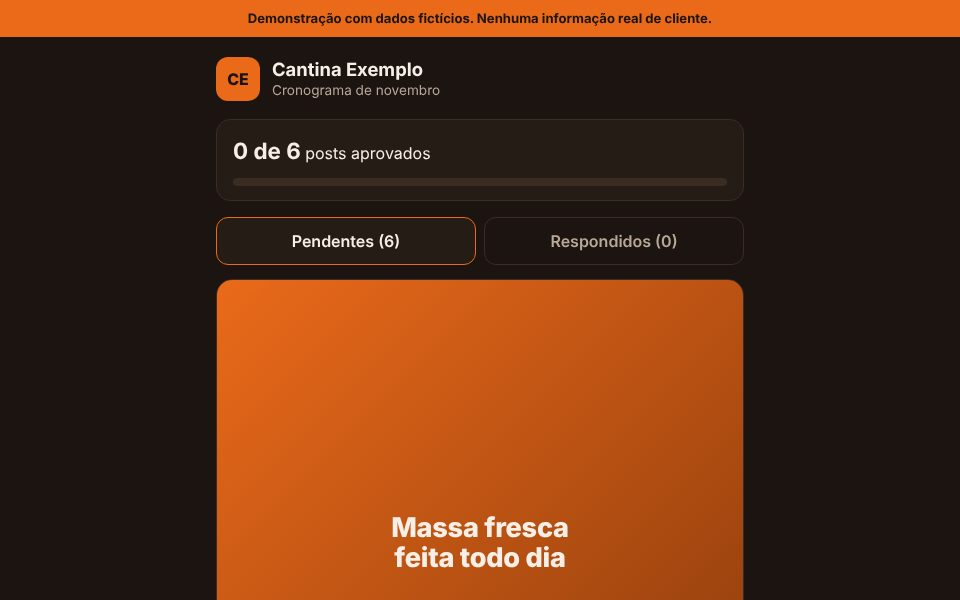
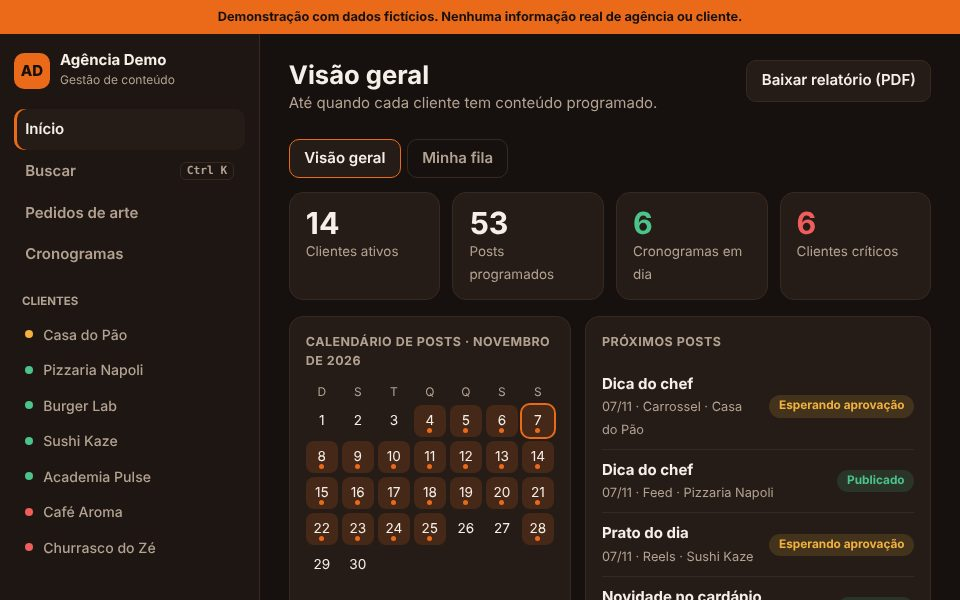
Demonstração completa (fictícia) do sistema de gestão de conteúdo para agências
Claude-Session: https://claude.ai/code/session_01MEoCJExMXmCTVFxWk9bnrk

diff --git a/demo-sistema/index.html b/demo-sistema/index.html
@@ -1,0 +1,163 @@
+<!doctype html>
+<html lang="pt-BR">
+<head>
+<meta charset="utf-8">
+<meta name="viewport" content="width=device-width,initial-scale=1">
+<title>Demonstração: gestão de conteúdo para agências | Creative Codex</title>
+<meta name="description" content="Demonstração com dados fictícios de um sistema de gestão de cronogramas, posts e pedidos de arte para agências de marketing.">
+<meta name="robots" content="noindex">
+<meta name="theme-color" content="#16110e">
+<style>
+:root{--bg:#16110e;--side:#1d1612;--card:#251c17;--line:#38291f;--tx:#f6efe8;--dim:#b3a291;--ac:#ea6a1a;--ok:#4cc38a;--warn:#f2b23d;--bad:#ef5d5d;--info:#6aa8ff}
+*{box-sizing:border-box;margin:0}
+body{background:var(--bg);color:var(--tx);font:15px/1.5 system-ui,-apple-system,"Segoe UI",Roboto,sans-serif}
+button,select,input{font:inherit;color:inherit}
+select,input{background:var(--card);border:1px solid var(--line);border-radius:10px;padding:.45rem .6rem;color-scheme:dark}
+.demo{background:var(--ac);color:#16110e;text-align:center;font-weight:700;font-size:.8rem;padding:.45rem 1rem}
+.app{display:grid;grid-template-columns:260px 1fr;min-height:100vh}
+.side{background:var(--side);border-right:1px solid var(--line);padding:18px 14px;position:sticky;top:0;height:100vh;overflow:auto}
+.brand{display:flex;gap:10px;align-items:center;margin-bottom:18px}.brand i{width:36px;height:36px;border-radius:10px;background:var(--ac);display:grid;place-items:center;font-style:normal;font-weight:800;color:#16110e}
+.brand b{display:block;line-height:1.1}.brand span{font-size:.75rem;color:var(--dim)}
+.nav button{display:flex;width:100%;align-items:center;gap:10px;background:none;border:0;border-radius:10px;padding:.6rem .7rem;color:var(--dim);cursor:pointer;text-align:left;font-weight:600}
+.nav button:hover{background:var(--card)}.nav button[aria-current=page]{background:var(--card);color:var(--tx);box-shadow:inset 3px 0 0 var(--ac)}
+.nav kbd{margin-left:auto;font-size:.7rem;border:1px solid var(--line);border-radius:6px;padding:0 .35rem;color:var(--dim)}
+.sec{font-size:.72rem;color:var(--dim);margin:18px 8px 6px;font-weight:700}
+.cl{max-height:40vh;overflow:auto}
+.cl button{font-weight:500;font-size:.88rem;padding:.45rem .7rem}
+.dot{width:8px;height:8px;border-radius:50%;flex:0 0 8px}
+.app>div{min-width:0}
+main{padding:26px clamp(16px,3vw,40px) 60px;max-width:1240px;width:100%}
+h1{font-size:1.6rem;line-height:1.2}.sub{color:var(--dim);margin:2px 0 18px}
+.top{display:flex;justify-content:space-between;gap:12px;flex-wrap:wrap;align-items:flex-start;margin-bottom:6px}
+.btn{border:1px solid var(--line);background:var(--card);border-radius:10px;padding:.55rem .9rem;cursor:pointer;font-weight:600}
+.btn.pri{background:var(--ac);border-color:var(--ac);color:#16110e}.btn:hover{filter:brightness(1.12)}
+.kpis{display:grid;grid-template-columns:repeat(4,1fr);gap:12px;margin-bottom:16px}
+.k{background:var(--card);border:1px solid var(--line);border-radius:14px;padding:14px 16px}.k b{font-size:1.9rem;display:block;line-height:1.1}.k span{color:var(--dim);font-size:.84rem}
+.k.bad b{color:var(--bad)}.k.ok b{color:var(--ok)}
+.grid2{display:grid;grid-template-columns:1.1fr 1fr;gap:14px;margin-bottom:16px}
+.card{background:var(--card);border:1px solid var(--line);border-radius:14px;padding:16px}
+.card h2{font-size:.78rem;color:var(--dim);margin-bottom:12px;letter-spacing:.04em}
+.cal{display:grid;grid-template-columns:repeat(7,1fr);gap:4px;text-align:center}
+.cal .h{color:var(--dim);font-size:.75rem}.cal .d{position:relative;aspect-ratio:1;display:grid;place-items:center;border-radius:8px;font-size:.85rem}
+.cal .d.has{background:rgba(234,106,26,.16)}.cal .d.has::after{content:"";position:absolute;bottom:4px;width:5px;height:5px;border-radius:50%;background:var(--ac)}
+.cal .d.today{outline:2px solid var(--ac)}
+.row{display:flex;align-items:center;gap:10px;padding:.55rem 0;border-bottom:1px solid var(--line)}.row:last-child{border:0}
+.row .t{flex:1;min-width:0}.row .t b{display:block;overflow:hidden;text-overflow:ellipsis;white-space:nowrap}.row .t span{font-size:.8rem;color:var(--dim)}
+.chip{display:inline-block;border-radius:99px;padding:.15rem .6rem;font-size:.74rem;font-weight:700;white-space:nowrap}
+.c-ok{background:rgba(76,195,138,.15);color:var(--ok)}.c-warn{background:rgba(242,178,61,.15);color:var(--warn)}.c-bad{background:rgba(239,93,93,.15);color:var(--bad)}.c-info{background:rgba(106,168,255,.15);color:var(--info)}.c-mut{background:var(--line);color:var(--dim)}
+.tabs{display:flex;gap:6px;margin-bottom:14px;flex-wrap:wrap}.tabs button{border:1px solid var(--line);background:none;border-radius:10px;padding:.45rem .9rem;color:var(--dim);cursor:pointer;font-weight:600}.tabs button[aria-selected=true]{background:var(--card);color:var(--tx);border-color:var(--ac)}
+.filters{display:flex;gap:8px;flex-wrap:wrap;margin-bottom:14px}.filters select,.filters input,.f select,.f input{background:var(--card);border:1px solid var(--line);border-radius:10px;padding:.5rem .7rem}
+table{width:100%;border-collapse:collapse}th{text-align:left;font-size:.75rem;color:var(--dim);padding:.5rem .6rem}td{padding:.65rem .6rem;border-top:1px solid var(--line);vertical-align:middle}
+.tw{overflow-x:auto}
+.empty{text-align:center;color:var(--dim);padding:34px 8px}
+dialog{background:var(--card);color:var(--tx);border:1px solid var(--line);border-radius:16px;padding:20px;width:min(440px,92vw)}dialog::backdrop{background:rgba(0,0,0,.6)}
+.f{display:grid;gap:10px;margin:14px 0}.f label{display:grid;gap:4px;font-size:.82rem;color:var(--dim)}
+.bar{height:8px;background:var(--line);border-radius:8px;overflow:hidden;margin-top:6px}.bar i{display:block;height:100%;background:var(--ac)}
+.mnav{display:none}
+@media (max-width:860px){
+ .app{grid-template-columns:1fr}.side{display:none}
+ .mnav{display:flex;position:sticky;top:0;z-index:40;background:var(--side);border-bottom:1px solid var(--line);overflow-x:auto;gap:6px;padding:8px 12px}
+ .mnav button{flex:0 0 auto;border:1px solid var(--line);background:none;border-radius:99px;padding:.4rem .8rem;color:var(--dim);font-weight:600;cursor:pointer}.mnav kbd{display:none}.mnav button[aria-current=page]{background:var(--ac);color:#16110e;border-color:var(--ac)}
+ .kpis{grid-template-columns:1fr 1fr}.grid2{grid-template-columns:1fr}
+}
+button:focus-visible,select:focus-visible,input:focus-visible{outline:2px solid var(--tx);outline-offset:2px}
+@media print{.demo,.side,.mnav,.btn{display:none}.app{display:block}body{background:#fff;color:#000}.card,.k{border-color:#ccc;background:#fff}}
+</style>
+</head>
+<body>
+<div class="demo">Demonstração com dados fictícios. Nenhuma informação real de agência ou cliente.</div>
+<div class="app">
+ <aside class="side">
+  <div class="brand"><i>AD</i><div><b>Agência Demo</b><span>Gestão de conteúdo</span></div></div>
+  <nav class="nav" id="nav"></nav>
+  <div class="sec">CLIENTES</div>
+  <nav class="nav cl" id="cl"></nav>
+ </aside>
+ <div>
+  <nav class="mnav" id="mnav"></nav>
+  <main id="main"></main>
+ </div>
+</div>
+<dialog id="dlg"></dialog>
+<script>
+const $=s=>document.querySelector(s);
+const esc=s=>String(s).replace(/[&<>"]/g,c=>({'&':'&amp;','<':'&lt;','>':'&gt;','"':'&quot;'}[c]));
+const day=86400000,T0=new Date();T0.setHours(12,0,0,0);
+const dt=n=>new Date(T0.getTime()+n*day);
+const iso=d=>d.getFullYear()+'-'+String(d.getMonth()+1).padStart(2,'0')+'-'+String(d.getDate()).padStart(2,'0');
+const br=d=>String(d.getDate()).padStart(2,'0')+'/'+String(d.getMonth()+1).padStart(2,'0');
+const MES=['Janeiro','Fevereiro','Março','Abril','Maio','Junho','Julho','Agosto','Setembro','Outubro','Novembro','Dezembro'];
+const clients=[['Casa do Pão',[1,0,1,2,3,4,5,6]],['Pizzaria Napoli',[0,2,4,6,8,10,12]],['Burger Lab',[1,3,6,9]],['Sushi Kaze',[0,1,3,5,7,9,11,13,15,17]],['Academia Pulse',[2,4,9,12,16]],['Café Aroma',[]],['Churrasco do Zé',[-3,-1]],['Doceria Mel',[1,2,5]],['Bistrô Verde',[]],['Tapioca da Vila',[-2,0,1]],['Lanchonete Central',[4,7,10,14,18,21]],['Studio Fit',[]],['Padaria Sol',[-1]],['Sorveteria Gelato',[3,6,9,12,15,18,21,24]]].map((c,i)=>({id:i,name:c[0]}));
+const FMT=['Reels','Feed','Stories','Carrossel'],TIT=['Prato do dia','Promoção da semana','Bastidores','Aniversariante','Novidade no cardápio','Depoimento de cliente','Combo família','Dica do chef','Instrumental','Lançamento'];
+const STP=['Rascunho','Esperando aprovação','Aprovado','Programado','Publicado'];
+let posts=[],n=0;
+clients.forEach(c=>{const offs=[[1,0,1,2,3,4,5,6],[0,2,4,6,8,10,12],[1,3,6,9],[0,1,3,5,7,9,11,13,15,17],[2,4,9,12,16],[],[-3,-1],[1,2,5],[],[-2,0,1],[4,7,10,14,18,21],[],[-1],[3,6,9,12,15,18,21,24]][c.id];
+ offs.forEach((o,j)=>{n++;const past=o<0,today=o===0;posts.push({id:n,c:c.id,d:iso(dt(o)),f:FMT[(n+j)%4],t:TIT[(n*3+j)%TIT.length],s:past?4:today?(n%2?4:1):[1,2,3][n%3]})})});
+const reqs=[];[['Casa do Pão','Arte nova','Recorrente',1,0],['Pizzaria Napoli','Atualização','Feriado',0,1],['Burger Lab','Arte nova','Outro',2,2],['Sushi Kaze','Atualização','Recorrente',-1,0],['Academia Pulse','Arte nova','Aulão',3,2],['Doceria Mel','Arte nova','Feriado',5,3],['Café Aroma','Atualização','Recorrente',0,5],['Sorveteria Gelato','Arte nova','Outro',-2,1]].forEach((r,i)=>reqs.push({id:i+1,c:r[0],k:r[1],cat:r[2],d:iso(dt(r[3])),s:['Aguardando','Em produção','Alteração solicitada','Entregue','Aprovada','Em produção'][r[4]]||'Aguardando',w:r[1]==='Arte nova'?3:1}));
+const ST={view:'home',sub:'geral',cid:null,rtab:'ped',rview:'lista',rf:'Abertas',cap:{teto:20,nova:3,atu:1}};
+const stClass=s=>({'Publicado':'c-ok','Aprovado':'c-ok','Programado':'c-info','Esperando aprovação':'c-warn','Rascunho':'c-mut'}[s]||'c-mut');
+function pcl(c){const ps=posts.filter(p=>p.c===c.id&&p.d>=iso(T0)).sort((a,b)=>a.d<b.d?-1:1);const last=ps.length?ps[ps.length-1].d:(posts.filter(p=>p.c===c.id).map(p=>p.d).sort().pop()||'');
+ const days=last?Math.round((new Date(last+'T12:00:00')-T0)/day):null;
+ let st,cls,col;if(!last){st='Sem conteúdo';cls='c-bad';col='var(--bad)'}else if(days<0){st='Vencido';cls='c-bad';col='var(--bad)'}else if(days<=2){st='Acaba em breve';cls='c-warn';col='var(--warn)'}else if(days<=7){st='Acabando';cls='c-warn';col='var(--warn)'}else{st='Em dia';cls='c-ok';col='var(--ok)'}
+ return{c,fut:ps.length,last,days,st,cls,col}}
+function nav(){const it=[['home','Início'],['search','Buscar'],['reqs','Pedidos de arte'],['sched','Cronogramas']];
+ const h=it.map(([k,l])=>`<button data-v="${k}" ${ST.view===k?'aria-current="page"':''}>${l}${k==='search'?'<kbd>Ctrl K</kbd>':''}</button>`).join('');
+ $('#nav').innerHTML=h;$('#mnav').innerHTML=h;
+ $('#cl').innerHTML=clients.map(c=>{const p=pcl(c);return`<button data-c="${c.id}" ${ST.view==='sched'&&ST.cid===c.id?'aria-current="page"':''}><span class="dot" style="background:${p.col}"></span>${esc(c.name)}</button>`}).join('')}
+function home(){const all=clients.map(pcl),crit=all.filter(p=>p.days===null||p.days<=2);
+ const up=posts.filter(p=>p.d>=iso(T0)).sort((a,b)=>a.d<b.d?-1:a.d>b.d?1:a.id-b.id);
+ const nf=posts.filter(p=>p.d>=iso(T0)).length,ok=all.filter(p=>p.days!==null&&p.days>7).length;
+ const y=T0.getFullYear(),m=T0.getMonth(),first=new Date(y,m,1).getDay(),dim=new Date(y,m+1,0).getDate();
+ const has=new Set(posts.map(p=>p.d));
+ let cal='';['D','S','T','Q','Q','S','S'].forEach(l=>cal+=`<div class="h">${l}</div>`);for(let i=0;i<first;i++)cal+='<div></div>';
+ for(let d=1;d<=dim;d++){const k=y+'-'+String(m+1).padStart(2,'0')+'-'+String(d).padStart(2,'0');cal+=`<div class="d ${has.has(k)?'has':''} ${d===T0.getDate()?'today':''}">${d}</div>`}
+ const tabs=`<div class="tabs" role="tablist"><button data-sub="geral" aria-selected="${ST.sub==='geral'}">Visão geral</button><button data-sub="fila" aria-selected="${ST.sub==='fila'}">Minha fila</button></div>`;
+ if(ST.sub==='fila'){const mine=posts.filter(p=>p.s===1).slice(0,8),r=reqs.filter(r=>['Aguardando','Em produção','Alteração solicitada'].includes(r.s));
+  return`<div class="top"><div><h1>Minha fila</h1><p class="sub">O que precisa da sua atenção hoje.</p></div></div>${tabs}<div class="grid2"><div class="card"><h2>POSTS PARA APROVAR</h2>${mine.map(p=>`<div class="row"><div class="t"><b>${esc(p.t)}</b><span>${esc(clients[p.c].name)} · ${br(new Date(p.d+'T12:00'))} · ${p.f}</span></div><button class="btn" data-ap="${p.id}">Aprovar</button></div>`).join('')||'<p class="empty">Nada pendente.</p>'}</div><div class="card"><h2>PEDIDOS DE ARTE EM ABERTO</h2>${r.map(q=>`<div class="row"><div class="t"><b>${esc(q.c)}</b><span>${q.k} · ${br(new Date(q.d+'T12:00'))}</span></div><span class="chip c-warn">${q.s}</span></div>`).join('')||'<p class="empty">Nada em aberto.</p>'}</div></div>`}
+ return`<div class="top"><div><h1>Visão geral</h1><p class="sub">Até quando cada cliente tem conteúdo programado.</p></div><button class="btn" onclick="window.print()">Baixar relatório (PDF)</button></div>${tabs}
+ <div class="kpis"><div class="k"><b>${clients.length}</b><span>Clientes ativos</span></div><div class="k"><b>${nf}</b><span>Posts programados</span></div><div class="k ok"><b>${ok}</b><span>Cronogramas em dia</span></div><div class="k bad"><b>${crit.length}</b><span>Clientes críticos</span></div></div>
+ <div class="grid2"><div class="card"><h2>CALENDÁRIO DE POSTS · ${MES[m].toUpperCase()} DE ${y}</h2><div class="cal">${cal}</div></div>
+ <div class="card"><h2>PRÓXIMOS POSTS</h2>${up.slice(0,6).map(p=>`<div class="row"><div class="t"><b>${esc(p.t)}</b><span>${br(new Date(p.d+'T12:00'))} · ${p.f} · ${esc(clients[p.c].name)}</span></div><span class="chip ${stClass(STP[p.s])}">${STP[p.s]}</span></div>`).join('')}</div></div>
+ <div class="card" style="margin-bottom:14px"><h2>${crit.length} CLIENTES COM 2 DIAS OU MENOS DE CONTEÚDO</h2><p style="color:var(--dim);font-size:.88rem">${crit.map(p=>esc(p.c.name)+(p.days===null?' (sem posts)':p.days<0?' (vencido)':' (acaba em breve)')).join(' · ')}</p></div>
+ <div class="card"><h2>CLIENTES POR PRAZO DE CONTEÚDO</h2>${all.slice().sort((a,b)=>(a.days===null?-99:a.days)-(b.days===null?-99:b.days)).map(p=>`<div class="row" data-c="${p.c.id}" style="cursor:pointer"><div class="t"><b>${esc(p.c.name)}</b><span>${p.last?'Conteúdo até '+br(new Date(p.last+'T12:00'))+' · '+p.fut+' post(s) futuros':'Nenhum post cadastrado'}</span></div><span class="chip ${p.cls}">${p.st}</span></div>`).join('')}</div>`}
+const csel=()=>`<div class="filters"><select data-cs aria-label="Cliente"><option value="">Selecione um cliente</option>${clients.map(c=>`<option value="${c.id}" ${ST.cid===c.id?'selected':''}>${esc(c.name)}</option>`).join('')}</select></div>`;
+function sched(){const c=clients[ST.cid];if(!c)return`<div class="top"><div><h1>Cronograma</h1></div><button class="btn pri" data-new>Nova postagem</button></div>${csel()}<div class="card empty"><b>Selecione um cliente</b><br>Escolha um cliente na barra lateral para ver o cronograma.</div>`;
+ const ps=posts.filter(p=>p.c===c.id).sort((a,b)=>a.d<b.d?-1:1);
+ return`<div class="top"><div><h1>${esc(c.name)}</h1><p class="sub">${ps.length} posts no cronograma.</p></div><button class="btn pri" data-new>Nova postagem</button></div>${csel()}<div class="card tw">${ps.length?`<table><thead><tr><th>Data</th><th>Formato</th><th>Título</th><th>Status</th><th></th></tr></thead><tbody>${ps.map(p=>`<tr><td>${br(new Date(p.d+'T12:00'))}</td><td>${p.f}</td><td>${esc(p.t)}</td><td><span class="chip ${stClass(STP[p.s])}">${STP[p.s]}</span></td><td style="text-align:right">${p.s<4?`<button class="btn" data-adv="${p.id}">Avançar</button>`:''} <button class="btn" data-del="${p.id}" aria-label="Excluir">Excluir</button></td></tr>`).join('')}</tbody></table>`:'<p class="empty">Nenhum post cadastrado. Use "Nova postagem".</p>'}</div>`}
+function reqsV(){let l=reqs.slice();const f=ST.rf,ab=['Aguardando','Em produção','Alteração solicitada'];if(f==='Abertas')l=l.filter(r=>ab.includes(r.s));else if(f!=='Todas')l=l.filter(r=>r.s===f);
+ l.sort((a,b)=>a.d<b.d?-1:1);const open=reqs.filter(r=>ab.includes(r.s)),hoje=open.filter(r=>r.d===iso(T0)).length,atr=open.filter(r=>r.d<iso(T0)).length,used=open.reduce((s,r)=>s+r.w,0);
+ const sc={'Aguardando':'c-warn','Em produção':'c-info','Alteração solicitada':'c-bad','Entregue':'c-ok','Aprovada':'c-ok','Recusada':'c-mut'};
+ return`<div class="top"><div><h1>Artes</h1><p class="sub">Pedidos de arte dos clientes.</p></div><div style="display:flex;gap:8px"><button class="btn" onclick="window.print()">Gerar PDF</button><button class="btn pri" data-nreq>Solicitar arte</button></div></div>
+ <div class="tabs"><button data-rt="ped" aria-selected="${ST.rtab==='ped'}">Pedidos</button><button data-rt="rec" aria-selected="${ST.rtab==='rec'}">Recorrentes</button></div>
+ <div class="kpis"><div class="k"><b>1,5 dia</b><span>Tempo médio de entrega</span></div><div class="k ok"><b>92%</b><span>Entregas no prazo</span></div><div class="k"><b>${open.length}</b><span>Em aberto</span></div><div class="k ${atr?'bad':''}"><b>${atr}</b><span>Atrasadas · ${hoje} vencem hoje</span></div></div>
+ <div class="card" style="margin-bottom:14px"><h2>CAPACIDADE DIÁRIA</h2><div style="display:flex;gap:14px;flex-wrap:wrap;align-items:center"><span>${used} de ${ST.cap.teto} pontos em uso</span><div class="bar" style="flex:1;min-width:140px"><i style="width:${Math.min(100,used/ST.cap.teto*100)}%"></i></div></div></div>
+ ${ST.rtab==='rec'?`<div class="card"><h2>PEDIDOS RECORRENTES</h2>${['Casa do Pão · Prato do dia · toda segunda','Sushi Kaze · Promoção semanal · toda quinta','Academia Pulse · Treino da semana · todo domingo'].map(t=>`<div class="row"><div class="t"><b>${t.split(' · ')[1]}</b><span>${t.split(' · ')[0]} · ${t.split(' · ')[2]}</span></div><span class="chip c-info">Ativo</span></div>`).join('')}</div>`:
+ `<div class="filters"><select data-rf aria-label="Status">${['Abertas','Aguardando','Em produção','Alteração solicitada','Entregue','Aprovada','Recusada','Todas'].map(s=>`<option ${s===f?'selected':''}>${s}</option>`).join('')}</select></div>
+ <div class="card tw"><p style="color:var(--dim);margin-bottom:8px">${l.length} pedidos encontrados</p>${l.length?`<table><thead><tr><th>Cliente</th><th>Tipo</th><th>Categoria</th><th>Prazo</th><th>Status</th></tr></thead><tbody>${l.map(r=>`<tr><td><b>${esc(r.c)}</b></td><td>${r.k}</td><td>${r.cat}</td><td>${br(new Date(r.d+'T12:00'))}${r.d<iso(T0)&&['Aguardando','Em produção','Alteração solicitada'].includes(r.s)?' <span class="chip c-bad">Atrasada</span>':''}</td><td><select data-rs="${r.id}" aria-label="Status do pedido">${['Aguardando','Em produção','Alteração solicitada','Entregue','Aprovada','Recusada'].map(s=>`<option ${s===r.s?'selected':''}>${s}</option>`).join('')}</select></td></tr>`).join('')}</tbody></table>`:'<p class="empty">Nenhuma solicitação aqui.</p>'}</div>`}`}
+function search(){return`<div class="top"><div><h1>Buscar</h1></div></div><div class="filters"><input id="q" placeholder="Buscar cliente ou post" style="flex:1;min-width:200px" aria-label="Buscar" autofocus></div><div id="qr"></div>`}
+function render(){nav();$('#main').innerHTML=({home,sched,reqs:reqsV,search})[ST.view]();if(ST.view==='search')qs('')}
+function qs(v){v=v.toLowerCase();const c=clients.filter(c=>c.name.toLowerCase().includes(v)),p=v?posts.filter(p=>p.t.toLowerCase().includes(v)).slice(0,8):[];
+ $('#qr').innerHTML=`<div class="card"><h2>CLIENTES</h2>${c.map(c=>`<div class="row" data-c="${c.id}" style="cursor:pointer"><div class="t"><b>${esc(c.name)}</b></div></div>`).join('')||'<p class="empty">Nada encontrado.</p>'}</div>`+(p.length?`<div class="card" style="margin-top:12px"><h2>POSTS</h2>${p.map(p=>`<div class="row"><div class="t"><b>${esc(p.t)}</b><span>${esc(clients[p.c].name)} · ${br(new Date(p.d+'T12:00'))}</span></div></div>`).join('')}</div>`:'')}
+function dlg(h){const d=$('#dlg');d.innerHTML=h;d.showModal();return d}
+document.addEventListener('click',e=>{const t=e.target.closest('[data-v],[data-c],[data-sub],[data-new],[data-adv],[data-del],[data-ap],[data-nreq],[data-rt]');if(!t)return;
+ const g=k=>t.dataset[k];
+ if(g('v')){ST.view=g('v');if(ST.view==='sched'&&ST.cid==null)ST.cid=null}
+ else if(g('c')!==undefined){ST.view='sched';ST.cid=+g('c')}
+ else if(g('sub')){ST.sub=g('sub')}
+ else if(g('rt')){ST.rtab=g('rt')}
+ else if(g('adv')){const p=posts.find(p=>p.id==g('adv'));if(p&&p.s<4)p.s++}
+ else if(g('del')){posts=posts.filter(p=>p.id!=g('del'))}
+ else if(g('ap')){const p=posts.find(p=>p.id==g('ap'));if(p)p.s=2}
+ else if(t.hasAttribute('data-new')){if(ST.cid==null){ST.cid=0;render()}
+  const d=dlg(`<form method="dialog"><h2>Nova postagem</h2><p style="color:var(--dim)">${esc(clients[ST.cid].name)}</p><div class="f"><label>Data<input type="date" name="d" value="${iso(dt(1))}" required></label><label>Formato<select name="f">${FMT.map(x=>`<option>${x}</option>`).join('')}</select></label><label>Título<input name="t" required maxlength="60" placeholder="Ex.: Prato do dia"></label></div><div style="display:flex;gap:8px;justify-content:flex-end"><button class="btn" value="x" formnovalidate>Cancelar</button><button class="btn pri" value="ok">Adicionar</button></div></form>`);
+  d.onclose=()=>{if(d.returnValue==='ok'){const f=new FormData(d.querySelector('form'));posts.push({id:++n+100,c:ST.cid,d:f.get('d'),f:f.get('f'),t:String(f.get('t')).slice(0,60),s:0});render()}};return}
+ else if(t.hasAttribute('data-nreq')){const d=dlg(`<form method="dialog"><h2>Solicitar arte</h2><div class="f"><label>Cliente<select name="c">${clients.map(c=>`<option>${esc(c.name)}</option>`).join('')}</select></label><label>Tipo<select name="k"><option>Arte nova</option><option>Atualização</option></select></label><label>Categoria<select name="cat"><option>Recorrente</option><option>Feriado</option><option>Aulão</option><option>Outro</option></select></label><label>Prazo<input type="date" name="d" value="${iso(dt(2))}" required></label></div><div style="display:flex;gap:8px;justify-content:flex-end"><button class="btn" value="x" formnovalidate>Cancelar</button><button class="btn pri" value="ok">Solicitar</button></div></form>`);
+  d.onclose=()=>{if(d.returnValue==='ok'){const f=new FormData(d.querySelector('form'));reqs.push({id:reqs.length+1,c:f.get('c'),k:f.get('k'),cat:f.get('cat'),d:f.get('d'),s:'Aguardando',w:f.get('k')==='Arte nova'?3:1});render()}};return}
+ render()});
+document.addEventListener('change',e=>{if(e.target.matches('[data-cs]')){ST.cid=e.target.value===''?null:+e.target.value;render()}if(e.target.matches('[data-rf]')){ST.rf=e.target.value;render()}if(e.target.matches('[data-rs]')){reqs.find(r=>r.id==e.target.dataset.rs).s=e.target.value;render()}});
+document.addEventListener('input',e=>{if(e.target.id==='q')qs(e.target.value)});
+document.addEventListener('keydown',e=>{if((e.ctrlKey||e.metaKey)&&e.key.toLowerCase()==='k'){e.preventDefault();ST.view='search';render();$('#q')&&$('#q').focus()}});
+render();
+</script>
+</body>
+</html>

diff --git a/index.html b/index.html
@@ -272,9 +272,9 @@
         <a class="lnk" href="https://www.behance.net/brenosoad" target="_blank" rel="noopener">Ver case no Behance<svg class="i" viewBox="0 0 24 24"><use href="#i-ext"/></svg></a></div>
       </article>
       <article class="pc">
-        <div class="pc-img tilt" data-tilt="7"><img src="img/aprovacao-demo.jpg" alt="Demonstração do sistema de aprovação de posts para restaurantes" loading="lazy"></div>
-        <div class="pc-body"><span class="tag-c">Sistema Web, 2026</span><h3>Aprovação de posts</h3><p>Sistema para agências de marketing: o cliente vê o cronograma e aprova ou pede ajuste pelo celular. Demonstração com dados fictícios.</p><div class="tags"><span>HTML5</span><span>CSS3</span><span>JavaScript</span></div>
-        <a class="lnk" href="/demo-aprovacao/" target="_blank" rel="noopener">Testar demonstração<svg class="i" viewBox="0 0 24 24"><use href="#i-ext"/></svg></a></div>
+        <div class="pc-img tilt" data-tilt="7"><img src="img/aprovacao-demo.jpg" alt="Demonstração do sistema de gestão de conteúdo para agências" loading="lazy"></div>
+        <div class="pc-body"><span class="tag-c">Sistema Web, 2026</span><h3>Gestão de conteúdo para agências</h3><p>Sistema com visão geral de clientes, cronogramas de posts, calendário e pedidos de arte. Demonstração com dados fictícios.</p><div class="tags"><span>HTML5</span><span>CSS3</span><span>JavaScript</span></div>
+        <a class="lnk" href="/demo-sistema/" target="_blank" rel="noopener">Testar demonstração<svg class="i" viewBox="0 0 24 24"><use href="#i-ext"/></svg></a></div>
       </article>
       <article class="pc pc-cta">
         <div class="pc-cta-in">
